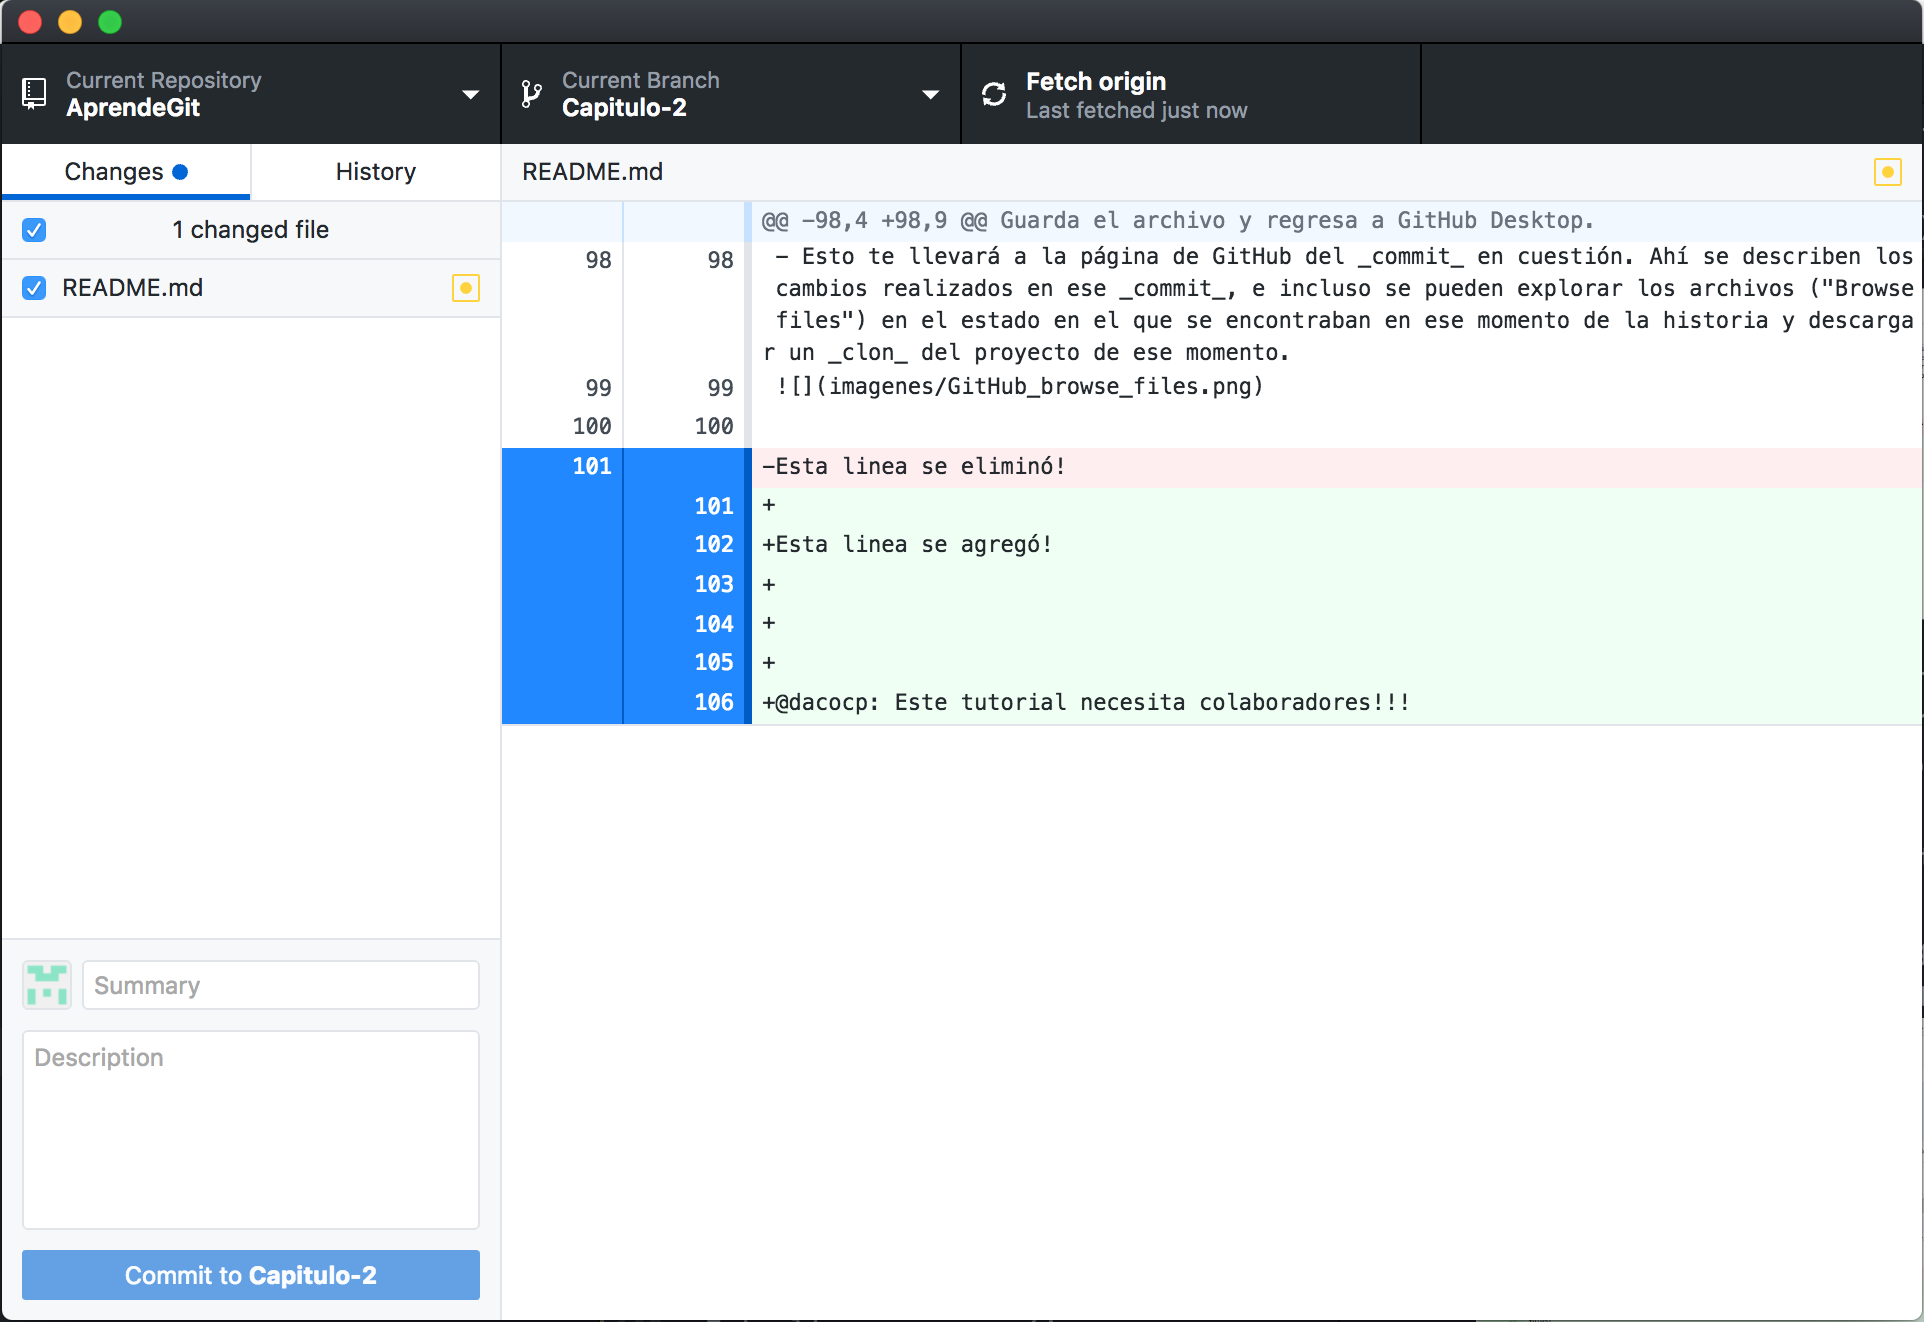
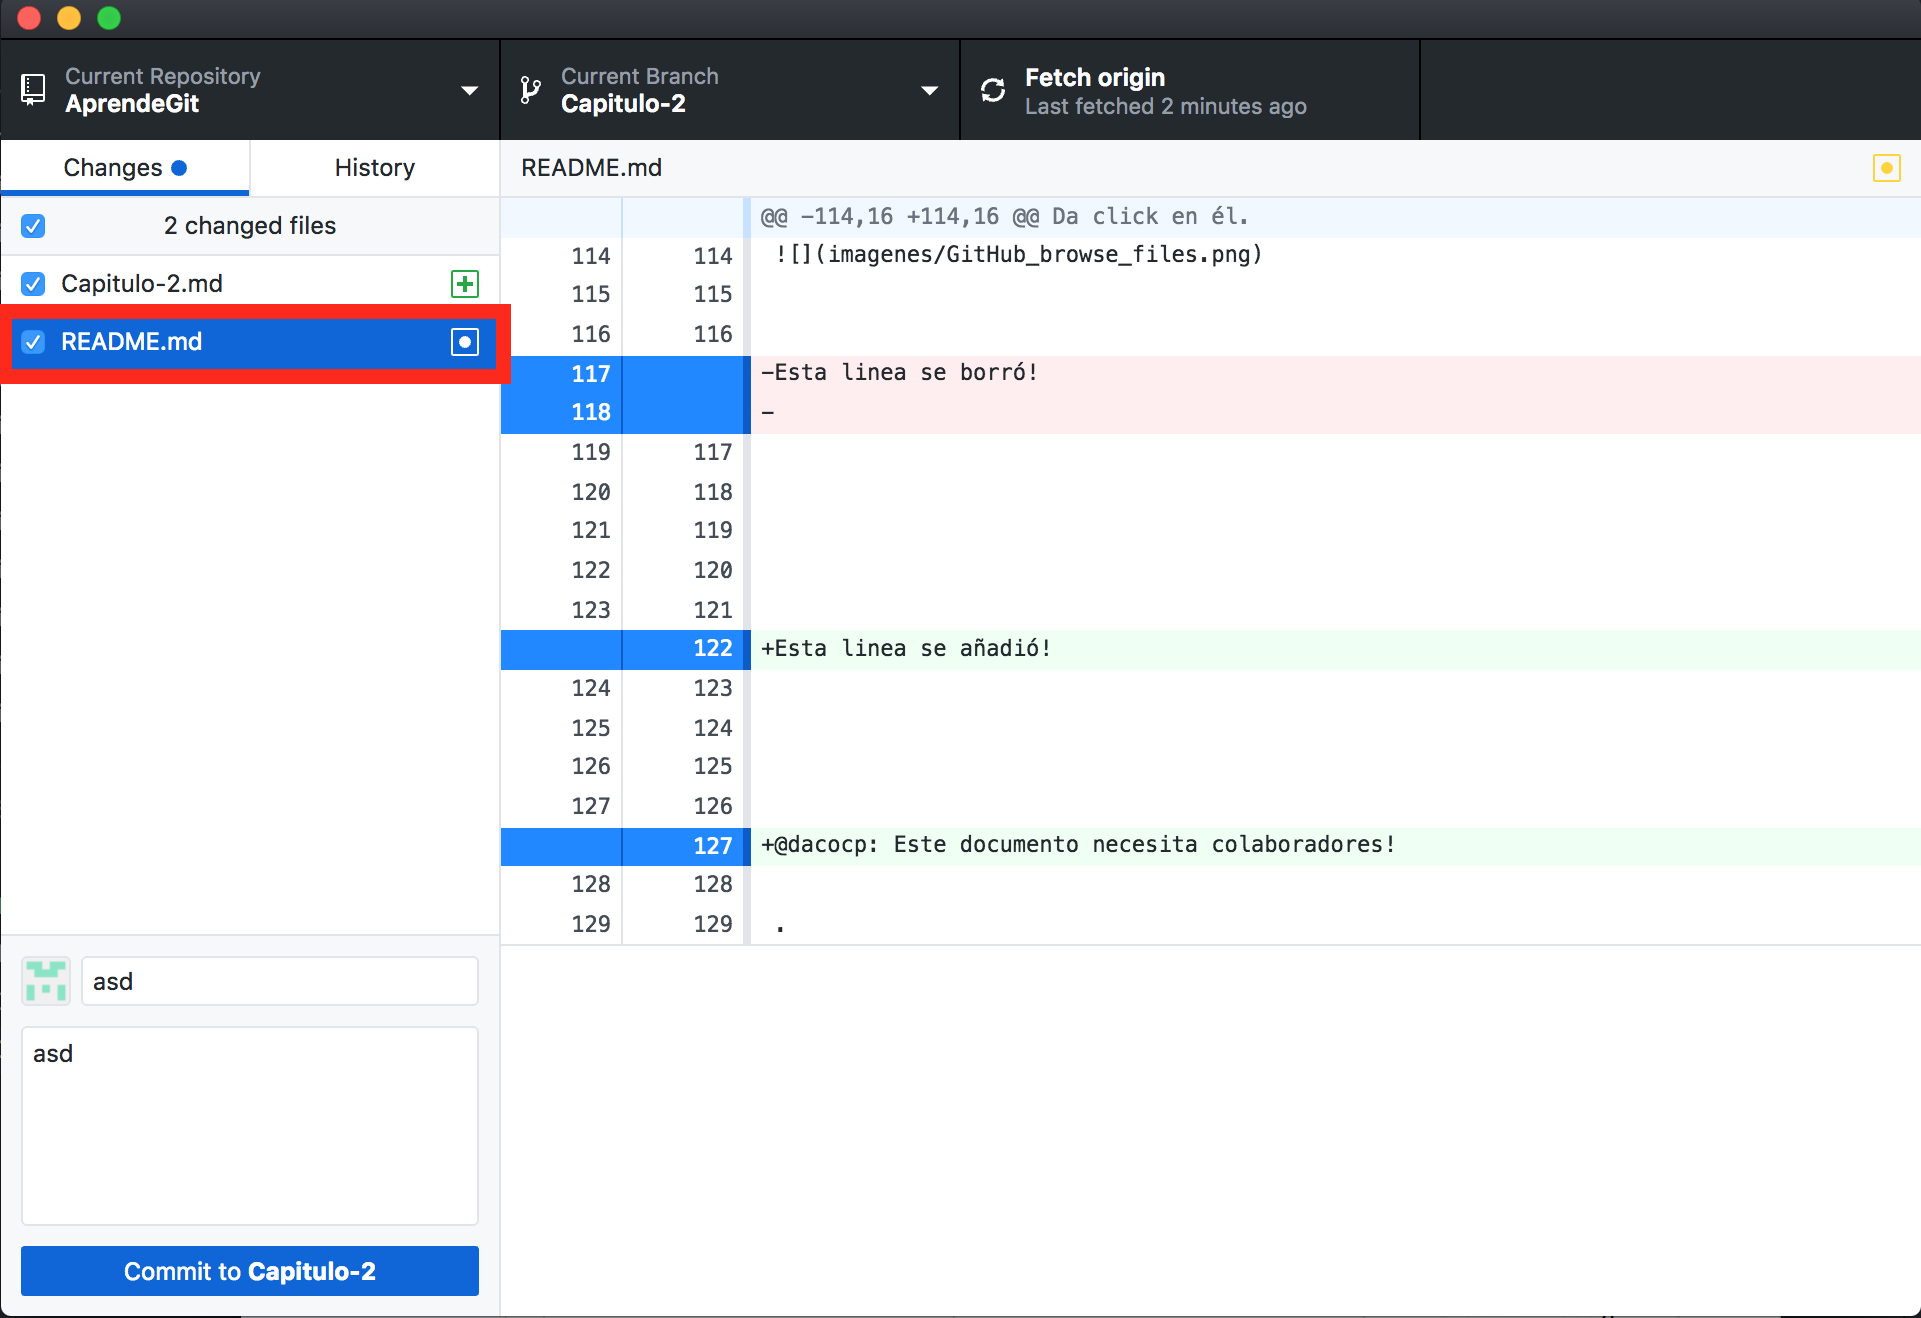
asd
asd

diff --git a/README.md b/README.md
@@ -52,10 +52,13 @@ https://desktop.github.com)
 
 6. Si todo salió bien, el repositorio Git ha sido _clonado_ a tu disco duro, y podrás ver sus archivos en la ruta que ingresaste (o que dejaste por default) en el inciso anterior.
 
-7. En la pantalla siguiente, verás  la lista de cambios en tu área de trabajo, que no han sido sincronizados (_commit_) con tu _master branch_. Como el repositorio está recién clonado, debe mostrar: _0 changed files_
+
+7. En la pantalla siguiente puedes interactuar con tu repositorio local para hacer _commits_ y actualizar repositorio local, pero también para interactuar con el repositorio remoto _origin_.
+
+8. En la pantalla siguiente, verás  la lista de cambios en tu área de trabajo, que no han sido sincronizados (_commit_) con tu _master branch_. Como el repositorio está recién clonado, debe mostrar: _0 changed files_
 ![](imagenes/GitHub_desktop_pantalla_inicio.png)
 
-8. En esta pantalla podrás interactuar con tu repositorio local para hacer _commits_ y actualizar repositorio local, pero también para interactuar con el repositorio remoto _origin_.
+
 
 9. Deja la pantalla de GitHub Desktop abierta y en un navegador busca y descarga un editor de Markdown (por ejemplo: http://markdownpad.com). Una vez descargado, instalalo en tu computadora.
 
@@ -87,9 +90,11 @@ Guarda el archivo y vuelve a la ventana de GitHub Desktop.
 
 17. En GitHub Desktop notarás que los cambios que hiciste en "Readme.md" fueron detectados.
 ![](imagenes/GitHub_desktop_cambios.png)
-En la parte derecha de la pantalla, con fondo rosa y precedido con un símbolo "-", verás el contenido eliminado, y en verde precedido por "+" encontrarás el contenido agregado.
+En la parte izquierda, encontrarás la lista de archivos que fueron modificados. En este caso, si modificaste el archivo "Readme.md" y creaste un nuevo archivo, deberás encontrarlos aquí.
+Puedes hacer click en cada uno de ellos, para ver los cambios dentro de ese archivo en la parte derecha de la pantalla. Con fondo rosa y precedido con un símbolo "-", verás el contenido eliminado, y en verde precedido por "+" encontrarás el contenido agregado.
+Si das click derecho sobre los archivos de la lista a la izquierda, aparecen otras opciones. La palomita (o su ausencia) a la izquierda del nombre de cada archivo los incluye o excluye de un _commit_. Asegúrate que todos los archivos que modificaste estén palomeados.
 
-18. Haz un _commit_ de los cambios que hiciste en tu archivo para que queden a la cabeza de tu rama _master_ (local). En la parte inferior izquierda de la pantalla, verás un cuadro de texto donde ingresar un resumen ("Summary") y una descripción más elaborada ("Description", opcional). Escribe un resumen y una descripción (opcional) de tu _commit_ y da click en el boton de abajo ("Commit to <'nombre de la rama'>").
+18. Ahora, haremos el _commit_ de los cambios que hiciste en tus archivos para que queden a la cabeza de tu rama local _Capitulo-2_ (o como le hayas llamado) y rastreados por Git como una nueva versión. En la parte inferior izquierda de la pantalla, verás un cuadro de texto donde ingresar un resumen ("Summary") y una descripción más elaborada ("Description", opcional). Escribe un resumen y una descripción (opcional) de tu _commit_ y da click en el boton de abajo ("Commit to <'nombre de la rama'>").
 
 19. Si todo salió bien, volverás a ver "0 changed files" y la pantalla vacía, y bajo del boton aparecerá una leyenda que dice "Commited just now". El botón de "Undo", a la derecha, te permite arrepentirte de tu _commit_ más reciente.
 
@@ -99,7 +104,7 @@ En la parte derecha de la pantalla, con fondo rosa y precedido con un símbolo "
 ![](imagenes/GitHub_desktop_push_origin.png)
 Da click en él.
 
-22. Has subido el p
+22. Tu nuevo contenido ahora se encuentra en el servidor central (en GitHub, en este caso), listo para que otros, al actualizar sus
 
 11. En la parte superior izquierda, donde dice "Current Repository" puedes ver el repositorio de trabajo actual, y al dar click podrás elegir abrir otros repositorios que tengas en tu computadora.
 
@@ -114,16 +119,16 @@ Da click en él.
 ![](imagenes/GitHub_browse_files.png)
 
 
-Esta linea se borró!
 
 
 
 
 
+Esta linea se añadió!
 
 
 
 
-
+@dacocp: Este documento necesita colaboradores!
 
 .

diff --git a/Capitulo-2.md b/Capitulo-2.md
@@ -1,0 +1,1 @@
+Algo interesante!
